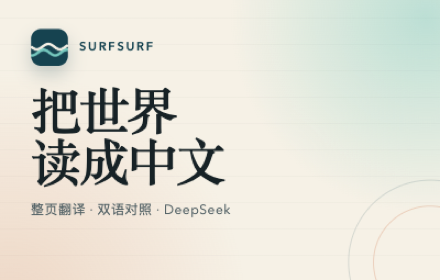
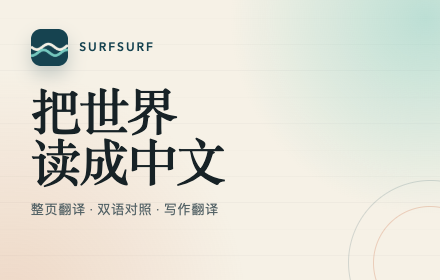
站点：更新写作翻译介绍与隐私说明
补充 Reddit 写作翻译截图、快捷键说明，以及编辑器文本处理与本地写作历史的隐私披露。

diff --git a/privacy.html b/privacy.html
@@ -26,13 +26,13 @@
 
         <h2>简要说明</h2>
         <p>
-          SurfSurf 没有开发者服务器，不包含统计、广告或追踪代码。扩展只在你触发翻译（手动翻译，或为某个站点开启自动翻译）时读取页面正文，并把待翻译文本发送到你自己配置的模型接口。
+          SurfSurf 没有开发者服务器，不包含统计、广告或追踪代码。扩展只在你触发翻译（手动翻译、为某个站点开启自动翻译，或启用写作翻译并在支持的编辑器中输入）时读取待翻译文本，并发送到你自己配置的模型接口。
         </p>
 
         <h2>扩展会处理哪些数据</h2>
         <ul>
           <li>
-            <strong>页面正文</strong>：待翻译的文本会发送到你配置的接口（默认
+            <strong>页面正文与写作内容</strong>：待翻译的页面文本，以及你在已启用的写作翻译编辑器中输入的内容，会发送到你配置的接口（默认
             <code>https://api.deepseek.com</code>），用于返回译文。开发者不会收到这些内容。
           </li>
           <li>
@@ -45,11 +45,14 @@
           <li>
             <strong>翻译缓存</strong>：译文保存在浏览器 IndexedDB 中，30 天有效、上限 50 MB，可在设置页一键清除。
           </li>
+          <li>
+            <strong>写作历史</strong>：只保存最近 20 条已发送的中英对照，可在设置页清除；未发送草稿不落盘。
+          </li>
         </ul>
 
         <h2>不会收集的数据</h2>
         <p>
-          不读取表单内容、密码、Cookie、浏览历史或输入框内容；不收集姓名、邮箱、位置、健康、金融等个人信息；不向第三方出售或共享数据。
+          不读取密码、搜索框、单行输入框、Cookie 或浏览历史；不会代替你点击发送按钮或调用站点发布接口；不收集姓名、邮箱、位置、健康、金融等个人信息；不向第三方出售或共享数据。
         </p>
 
         <h2>第三方接口</h2>
@@ -61,7 +64,7 @@
         <ul>
           <li><code>storage</code>：保存设置与本地缓存。</li>
           <li><code>https://api.deepseek.com/*</code>：向默认模型接口发送翻译请求。</li>
-          <li>内容脚本（所有网站）：在你触发翻译时读取页面正文并在原位渲染译文。</li>
+          <li>内容脚本（所有网站）：在你触发翻译时读取页面正文并在原位渲染译文；写作翻译启用时，读取受支持的多行评论/正文编辑器内容。</li>
         </ul>
 
         <h2>数据保留与删除</h2>
@@ -87,13 +90,13 @@
         <div lang="en">
           <h2>Summary</h2>
           <p>
-            SurfSurf has no developer-operated server and contains no analytics, ads or tracking code. The extension reads page text only when you trigger translation (manually or by enabling auto translation for a site), and sends that text to the model endpoint you configure.
+            SurfSurf has no developer-operated server and contains no analytics, ads or tracking code. The extension reads text only when you trigger translation (manually, by enabling auto translation for a site, or by typing in a supported editor while writing translation is enabled), and sends that text to the model endpoint you configure.
           </p>
 
           <h2>Data processed</h2>
           <ul>
             <li>
-              <strong>Page content</strong>: text selected for translation is sent to your configured endpoint (DeepSeek by default) to produce the translation. The developer never receives it.
+              <strong>Page and writing content</strong>: page text selected for translation, plus text you type in an enabled writing-translation editor, is sent to your configured endpoint (DeepSeek by default) to produce the translation. The developer never receives it.
             </li>
             <li>
               <strong>API key</strong>: stored in <code>chrome.storage.local</code>. It is sent only to your configured endpoint as an authorization header, never to the developer.
@@ -104,11 +107,14 @@
             <li>
               <strong>Translation cache</strong>: stored in IndexedDB for 30 days, capped at 50 MB, and can be cleared in the settings page.
             </li>
+            <li>
+              <strong>Writing history</strong>: only the latest 20 sent bilingual entries are stored locally; unsent drafts are not persisted. You can clear the history in settings.
+            </li>
           </ul>
 
           <h2>Data not collected</h2>
           <p>
-            SurfSurf does not read forms, passwords, cookies, browsing history or input fields, does not collect personal information, and does not sell or share data with third parties.
+            SurfSurf does not read passwords, search boxes, single-line inputs, cookies or browsing history, does not submit posts or comments on your behalf, does not collect personal information, and does not sell or share data with third parties.
           </p>
 
           <h2>Third-party endpoint</h2>

diff --git a/index.html b/index.html
@@ -6,7 +6,7 @@
     <title>SurfSurf — 把世界读成中文</title>
     <meta
       name="description"
-      content="SurfSurf 是一个整页翻译扩展：用 DeepSeek 把海外网站和社区翻译成中文，支持替换原文、双语对照和站点自动翻译。"
+      content="SurfSurf 是一个阅读与写作翻译扩展：用 DeepSeek 把海外网站和社区翻译成中文，也能在评论框里把中文写成英文。"
     />
     <link rel="icon" href="assets/icon-128.png" />
     <link rel="stylesheet" href="style.css" />
@@ -30,7 +30,7 @@
           <p class="kicker">CHROME EXTENSION / 个人阅读工具</p>
           <h1>把世界<br />读成中文</h1>
           <p class="lede">
-            整页替换原文，也可以双语对照。Reddit、技术博客、新闻站点，一次翻译读完；链接、代码、用户名和技术术语保持原样。
+            整页替换原文，也可以双语对照。Reddit、技术博客、新闻站点，一次翻译读完；还能在评论框里用中文起草，再把英文写回站点。
           </p>
           <a class="cta pending" href="#install">即将上架 Chrome Web Store</a>
         </div>
@@ -42,6 +42,11 @@
       <figure class="shot">
         <img src="assets/screenshot-reddit.png" alt="Reddit 双语翻译效果" />
         <figcaption>Reddit 主贴与评论，原文下方直接给出中文</figcaption>
+      </figure>
+
+      <figure class="shot shot-writing">
+        <img src="assets/screenshot-writing.png" alt="Reddit 写作翻译效果" />
+        <figcaption>在评论框里输入中文，确认英文预览后写回站点编辑器</figcaption>
       </figure>
 
       <section class="features" id="features">
@@ -64,6 +69,12 @@
           </p>
         </div>
         <div class="feature">
+          <h2>写作翻译</h2>
+          <p>
+            在 Reddit 评论/回复或通用多行编辑器里输入中文，生成可编辑的英文预览；确认后写回原生编辑器，由你手动发送。
+          </p>
+        </div>
+        <div class="feature">
           <h2>自己的模型</h2>
           <p>
             默认 DeepSeek（<code>deepseek-flash</code>），API key 只保存在本机浏览器，也可以接入任意 OpenAI 兼容接口。
@@ -83,7 +94,7 @@
         <div class="feature">
           <h2>快捷键</h2>
           <p>
-            <code>⌘⇧S</code>（Windows/Linux 为 <code>Ctrl+Shift+S</code>）翻译全文，<code>Alt+T</code> 切换原文与译文。
+            <code>⌘⇧S</code>（Windows/Linux 为 <code>Ctrl+Shift+S</code>）翻译全文，<code>Alt+T</code> 切换原文与译文；写作面板用 <code>⌥E</code> 开合、<code>⌘⇧↵</code> 替换。
           </p>
         </div>
       </section>

diff --git a/style.css b/style.css
@@ -171,6 +171,10 @@ h1 {
   text-align: center;
 }
 
+.shot-writing {
+  margin-top: 28px;
+}
+
 .features {
   display: grid;
   grid-template-columns: repeat(2, minmax(0, 1fr));
